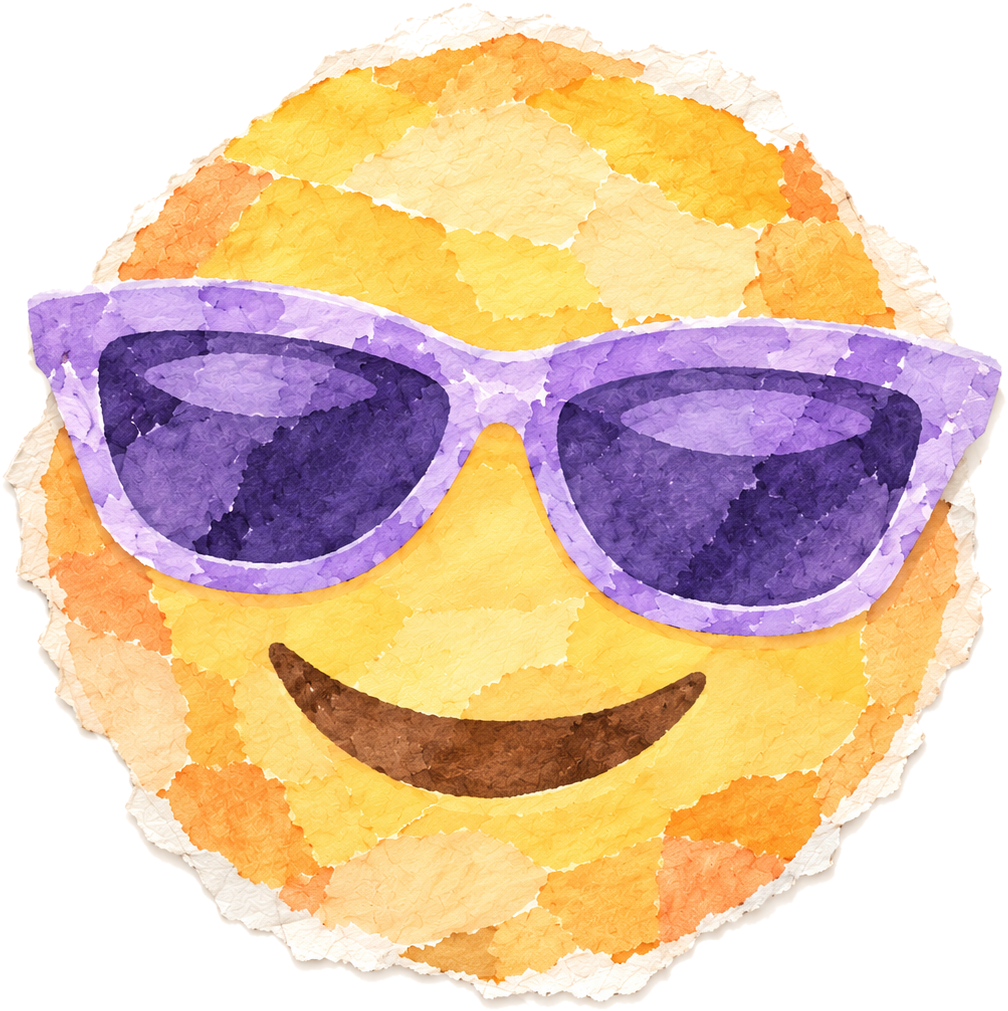
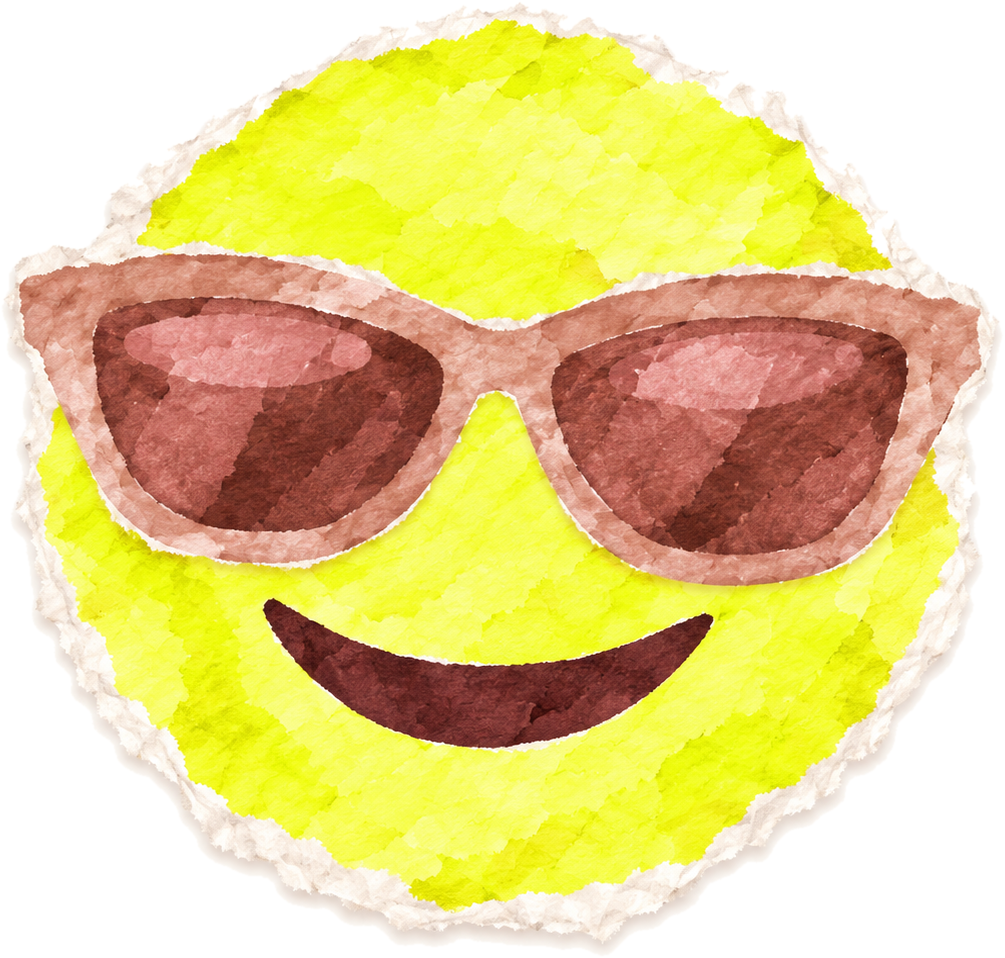
Palette 4 foundation: token remap, paper texture on every background, perforated stamp-box CSS, Rose paper ombre, new brand assets

diff --git a/apps/web/src/index.css b/apps/web/src/index.css
@@ -3,49 +3,63 @@
 *, *::before, *::after { box-sizing: border-box; margin: 0; padding: 0; }
 
 :root {
-  /* QuteNote iOS Design Guide, Oct 2026 — typed mail on good paper */
-  --ultraviolet:    #5A32D6;  /* the one action color */
-  --lavender:       #5A32D6;  /* legacy alias: old action color -> ultraviolet */
-  --lavender-light: #E9E2FB;  /* brightened to match the Oct 2026 design file's "lavender" token */
-  --lavender-pale:  #F3EEFF;  /* brightened to match the design file's "lavenderPale" token */
-  --lavender-dark:  #4A28B4;  /* pressed/hover: darker ultraviolet */
-  --lavender-deep:  #2B2238;  /* legacy alias: heading color -> ink */
-  --lavender-soft:  #A78BC7;  /* dashed borders, outline accents */
+  /* QuteNote palette 4, Oct 2026 — warm paper, oxblood ink, baby blue buttons.
+     Legacy variable names stay so every inline style follows the repaint. */
+  --paper:          #F1EBE3;  /* the background of every screen */
+  --card:           #FBF8F3;  /* white cards sitting on the ruled lines */
+  --outline:        #B4897A;  /* rosy brown: EVERY outline, solid and dashed */
+  --btn:            #BADAFF;  /* baby blue: primary button fill */
+  --highlight:      #EEFC4E;  /* neon yellow: progress, pills, badges, stamp hearts */
+  --stamp-center:   #9E625F;  /* dusty rose: note-card stamp center, + badges */
+  --selected-fill:  #F4ECE6;  /* fill behind dashed selected states */
+  --light-blush:    #E3D5CC;  /* back buttons, panels, segmented switches */
+  --light-blue:     #E9EDF1;  /* I NEED WORDS and soft note boxes */
+  --nav-inactive:   #9E7B70;  /* inactive tab labels */
+  --progress-track: #EBDDD6;
 
-  --blush:          #E9E2FB;  /* pink is retired; legacy aliases map to lavender */
-  --blush-pale:     #F3EEFF;
+  /* Legacy aliases → palette 4 */
+  --ultraviolet:    #4A2424;  /* old action color: accents/links read as oxblood now */
+  --lavender:       #4A2424;
+  --lavender-light: #E3D5CC;
+  --lavender-pale:  #F4ECE6;
+  --lavender-dark:  #3A1C1C;
+  --lavender-deep:  #4A2424;
+  --lavender-soft:  #B4897A;
 
-  --ink:            #231A3A;  /* darker/crisper per the design file (was #2B2238) */
-  --ink-mid:        #4A4163;  /* darker per the design file (was #5C5468) */
-  --ink-muted:      #7A7389;  /* per the design file (was #766E82) */
+  --blush:          #D5ADA3;  /* edge of the Rose paper ombre, avatars */
+  --blush-pale:     #F4ECE6;
 
-  --cream:          #FBF8F2;  /* matches the design file's "paper" token */
-  --cream-warm:     #F3EEFF;  /* panels that matter sit on lavender-pale */
-  --cream-ruled:    #E7E1EF;  /* matches the design file's "rulingLine" token */
-  --stone:          #E3DCF2;  /* card/field border per Oct 15 redesign ("border" token) */
-  --divider:        #EEEAF5;  /* thin dividers inside grouped cards */
-  --title-band-rule:#D9CFEC;  /* 2px rule under every screen's title band */
-  --lime:           #C6FF3D;  /* small accents only: pills, badges, switch-on, stamp heart */
-  --lime-tint:      #F3FFD1;
-  --lime-border:    #9ECF1B;
-  --neon-pink:      #FF6EB4;  /* carousel card accent only */
-  --pink-pale:      #F3D6E5;
-  --lilac:          #BE8EF5;  /* dashed selected-state borders — never on Write/Send buttons */
-  --stamp-frame:    #EEE8FB;  /* SEND stamp frame fill */
-  --placeholder:    #9A92AD;
-  --note-ink:       #2A1F4A;
-  --logo-heart:     #A78BC7;
-  --white:          #FFFFFF;
+  --ink:            #4A2424;  /* ALL text and icons — nothing is black */
+  --ink-mid:        #A07D7D;  /* secondary text: lighter oxblood */
+  --ink-muted:      #8A8078;  /* muted icons */
 
-  --error:          #E04E6B;
-  --error-pale:     #FDEDF1;
+  --cream:          #F1EBE3;
+  --cream-warm:     #F4ECE6;
+  --cream-ruled:    #ACA8B8;  /* 1px ruled line every 36px */
+  --stone:          #B4897A;  /* card/field border */
+  --divider:        #E6DED3;
+  --title-band-rule:#ACA8B8;
+  --lime:           #EEFC4E;  /* highlights keep their old hook names */
+  --lime-tint:      #E9EDF1;  /* I NEED WORDS box is light blue now */
+  --lime-border:    #B4897A;
+  --neon-pink:      #D5ADA3;  /* carousel accent → blush */
+  --pink-pale:      #EBDDD6;
+  --lilac:          #B4897A;  /* dashed selected-state borders */
+  --stamp-frame:    #F4ECE6;
+  --placeholder:    #A07D7D;
+  --note-ink:       #4A2424;
+  --logo-heart:     #EEFC4E;
+  --white:          #FBF8F3;  /* "white" cards are card-white */
 
-  --border-default: #E6E1DC;
-  --border-focused: #5A32D6;
+  --error:          #B4453C;  /* warmed into the palette */
+  --error-pale:     #F6E3DE;
 
-  --shadow-card:    0 4px 14px rgba(43,34,56,0.08);
-  --shadow-button:  0 4px 14px rgba(43,34,56,0.10);
-  --shadow-input:   0 0 0 3px rgba(90,50,214,0.15);
+  --border-default: #B4897A;
+  --border-focused: #4A2424;
+
+  --shadow-card:    0 4px 14px rgba(74,36,36,0.08);
+  --shadow-button:  0 4px 14px rgba(74,36,36,0.10);
+  --shadow-input:   0 0 0 3px rgba(180,137,122,0.25);
 
   --font-display:     'Unbounded', sans-serif;
   --font-body:        'Anonymous Pro', monospace;
@@ -81,18 +95,44 @@ body::before {
   inset: 0;
   z-index: -1;
   pointer-events: none;
-  background-image: repeating-linear-gradient(transparent, transparent 35px, var(--cream-ruled) 35px, var(--cream-ruled) 36px);
+  /* ruled lines over the paper grain over the paper color */
+  background-image:
+    repeating-linear-gradient(transparent, transparent 35px, var(--cream-ruled) 35px, var(--cream-ruled) 36px),
+    url('/brand/paper_texture.png');
 }
 
 /* The clear header space at the top of every screen, like school notebook
    paper. Height must be a multiple of 36 (144/216/252/288/324) so the ruled
    lines below keep their rhythm. Solid cream hides the ruling behind it. */
 .title-band {
-  background: var(--cream);
+  /* paper + grain, no ruled lines */
+  background: url('/brand/paper_texture.png'), var(--paper);
   border-bottom: 2px solid var(--title-band-rule);
   display: flex;
   flex-direction: column;
   justify-content: center;
+}
+
+/* Perforated postage-stamp box (palette 4): one continuous perforated rosy
+   brown edge, a strip of paper inside it, a thin inner frame, light blue
+   inside. From the design package's .qn-stamp CSS (masked pseudo-elements,
+   not tiled images, so the edge never shows hairline gaps). Give the element
+   `border: 10px solid transparent; background: transparent`. */
+.qn-stamp{position:relative;isolation:isolate;border-radius:0 !important;outline:none !important;box-shadow:none !important;background:transparent !important}
+.qn-stamp::before,.qn-stamp::after{content:'';position:absolute;inset:-10px;pointer-events:none}
+.qn-stamp::before{z-index:-2;background:#B4897A;-webkit-mask:linear-gradient(#000 0 0) 50% 50%/calc(100% - 6px) calc(100% - 6px) no-repeat,radial-gradient(circle at 50% 50%,#0000 2.7px,#000 3.2px) -5px -5px/10px 10px round;mask:linear-gradient(#000 0 0) 50% 50%/calc(100% - 6px) calc(100% - 6px) no-repeat,radial-gradient(circle at 50% 50%,#0000 2.7px,#000 3.2px) -5px -5px/10px 10px round}
+.qn-stamp::after{z-index:-1;background:linear-gradient(#E9EDF1,#E9EDF1) 50% 50%/calc(100% - 17px) calc(100% - 17px) no-repeat,linear-gradient(#B4897A,#B4897A) 50% 50%/calc(100% - 15px) calc(100% - 15px) no-repeat,#F1EBE3;-webkit-mask:linear-gradient(#000 0 0) 50% 50%/calc(100% - 9px) calc(100% - 9px) no-repeat,radial-gradient(circle at 50% 50%,#0000 4px,#000 4.5px) -5px -5px/10px 10px round,linear-gradient(#000 0 0) 50% 50%/calc(100% - 2.6px) calc(100% - 2.6px) no-repeat;-webkit-mask-composite:source-over,source-in;mask:linear-gradient(#000 0 0) 50% 50%/calc(100% - 9px) calc(100% - 9px) no-repeat,radial-gradient(circle at 50% 50%,#0000 4px,#000 4.5px) -5px -5px/10px 10px round,linear-gradient(#000 0 0) 50% 50%/calc(100% - 2.6px) calc(100% - 2.6px) no-repeat;mask-composite:add,intersect}
+
+/* The Rose paper ombre (Home carousel + Dates empty state) */
+.rose-paper {
+  background-image: url('/brand/paper_texture.png'), radial-gradient(circle at 50% 38%, #F1EBE3 0%, #D5ADA3 100%);
+  border: 1.5px solid var(--outline);
+}
+
+/* Inactive tab icons: tinted warm brown, never gray */
+.tab-inactive {
+  filter: grayscale(1) sepia(0.35) hue-rotate(-20deg) saturate(0.9);
+  opacity: 0.45;
 }
 
 /* Headlines: Unbounded, never bold — hierarchy comes from size */

diff --git a/apps/web/capacitor.config.ts b/apps/web/capacitor.config.ts
@@ -4,7 +4,7 @@ const config: CapacitorConfig = {
   appId: 'club.cutenote.app',
   appName: 'QuteNote',
   webDir: 'dist',
-  backgroundColor: '#FBF8F4',
+  backgroundColor: '#F1EBE3',
   ios: {
     contentInset: 'never',
   },
